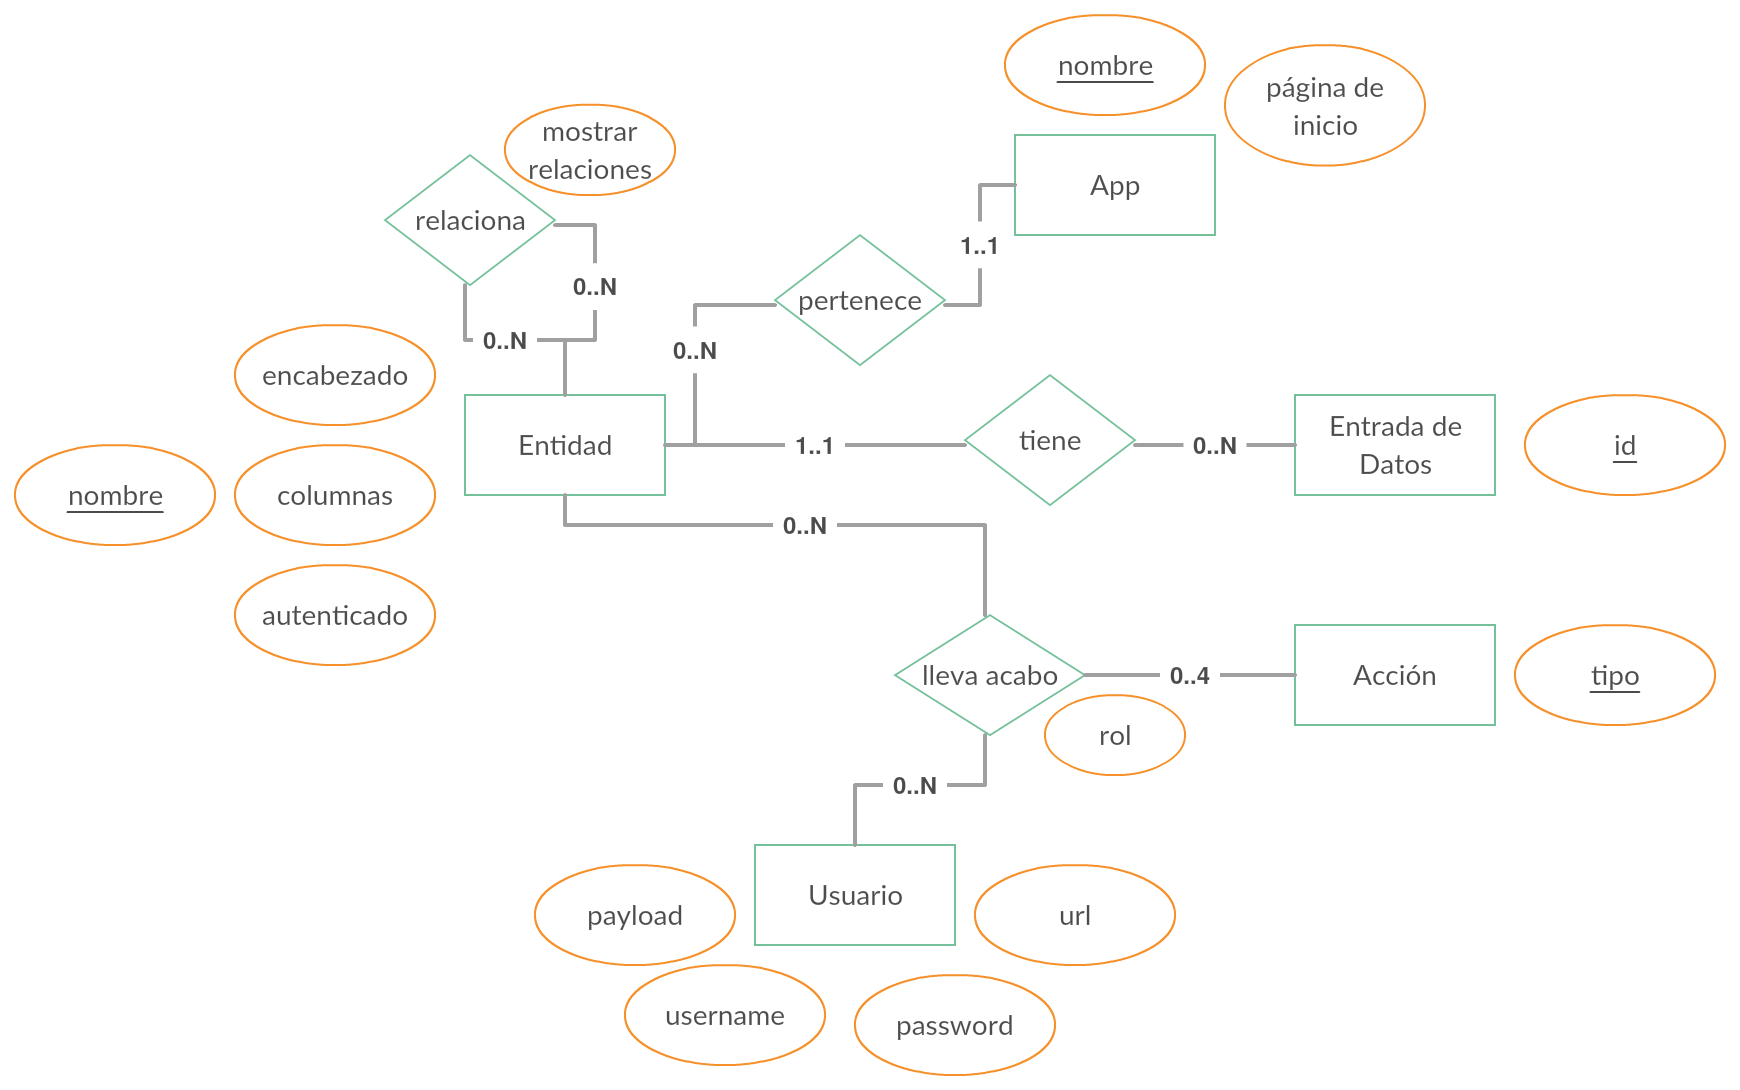
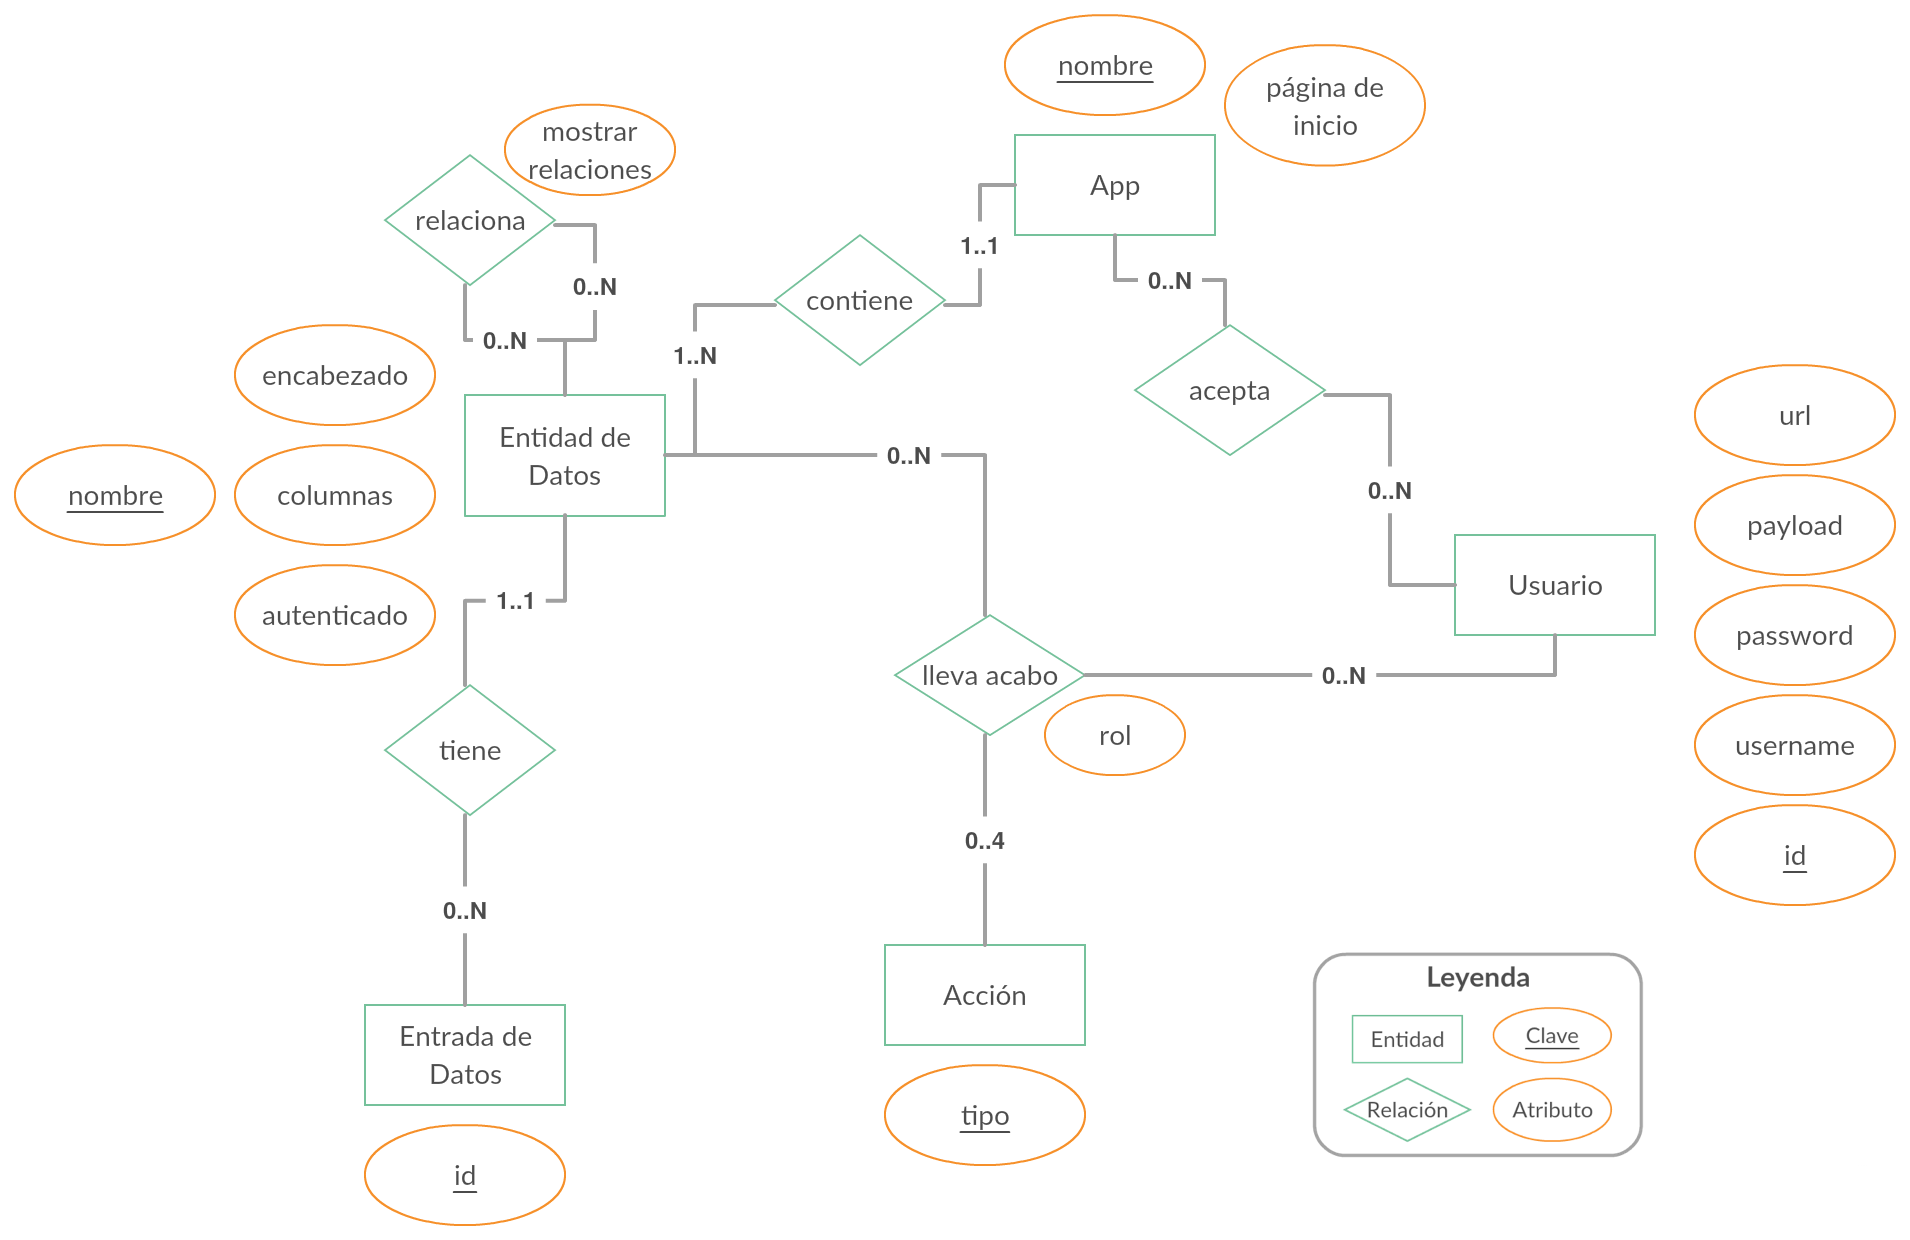
explicacion modelo-entidad-relacion

diff --git a/docs/analisis/modelo-de-datos.md b/docs/analisis/modelo-de-datos.md
@@ -1,1 +1,45 @@
-![Modelo Entidad-Relacion](../assets/mer.png)
+![Modelo Entidad-Relación](../assets/mer.png)
+
+## Explicación
+Para empezar se crea una nueva app, formada por un `nombre` y una `página de inicio`. App se relaciona con Usuario y con Entidad de Datos. Una aplicación puede aceptar desde cero usuarios hasta tantos como sea necesario; y un usuario puede estar aceptado en cero o el número de apps que deseé.
+Una app debe contener como mínimo una Entidad de Datos hasta el número que sea necesario; y una Entidad de Datos puede estar contenida en una sola app.
+
+Una Entidad de Datos tiene como atributos: nombre, encabezado, columnas y autenticado. El `nombre` funciona como identificador único, el `encabezado` es el texto que será visible al mostrar la entidad, el atributo `columnas` corresponde a las propiedades de datos que serán mostradas en la tabla de consulta,  el atributo `autenticado` determina si el acceso a la página de la entidad estará protegido por autenticación.
+
+Como mencionamos previamente Entidad de Datos está relacionada con App, pero también esta relacionada con Entrada de Datos, Acción y Usuario.
+Una Entidad de Datos puede tener cero o el número que sea necesario de entradas de datos. A su vez, una Entrada de Datos puede pertenecer únicamente a una Entidad de Datos.
+
+Entrada de Datos esta formada por el atributo: `id` que representa un identificador único.
+
+Usuario esta formado por los atributos: `id`, `username` que representa la propiedad a usar como nombre de usuario en la petición al servidor de autenticación, `password` representa la propiedad a usar como contraseña en la petición al servidor de autenticación, `payload` representa la ubicación dentro de la respuesta del servidor de autenticación donde se encuentran los datos de usuario y `url` la dirección web donde la aplicación debe de autenticarse.
+
+Un ejemplo práctico de la tabla de Usuario podría ser:
+
+| username | password | payload   | url                         |
+| -------- | -------- | --------- | --------------------------- |
+| email    | pass     | data.user | http://api.example.com/auth |
+
+La petición al servidor:
+```bash
+curl -XPOST -H "Content-type: application/json" -d '{"email": "john@example.com", "pass": "!6376e890bShbksd"}' 'http://api.example.com/auth'
+```
+La respuesta del servidor:
+```json
+{
+  "data": {
+    "user": {
+      "id": 1,
+      "name": "John",
+      "role": "ADMIN"
+    }
+  }
+}
+```
+
+Acción esta formada por atributo  `tipo`, que en la práctica puede ser: crear, ver, editar o eliminar. Acción tiene una relación triple con Entidad de Datos y Usuario. Esta se puede definir como: _Usuario_ lleva a cabo _acción_ en _entidad de datos_. Dicha relación tiene un atributo `rol` con el objetivo de determinar que usuario puede llevar acabo una acción en una entidad de datos.
+
+Una acción puede ser llevada ser llevada a cabo por cero o cualquier número de usuarios; un usuario puede llevar a cabo cero hasta el número de acciones soportadas (en este caso 4).
+
+Una acción puede ser llevada a cabo en cero o hasta en el número máximo entidades existentes; una entidad de datos puede soportar desde 0 hasta el número máximo de acciones definidas (en este caso 4).
+
+Un usuario puede  llevar a cabo acciones en cero o en el número máximo de entidades existentes; una entidad puede soportar acciones de cero hasta el número máximo de usuarios existentes.

diff --git a/docs/SUMMARY.md b/docs/SUMMARY.md
@@ -15,7 +15,7 @@
 * [Requisitos](requisitos.md)
 * [Análisis](analisis.md)
   * [Modelo de Datos](analisis/modelo-de-datos.md)
-  * [Casos de Uso](analisis/casos-de-uso)
+  * [Casos de Uso](analisis/casos-de-uso.md)
 * [Diseño](diseno.md)
 * [Implementación](implementacion.md)
 * [Pruebas](pruebas.md)
